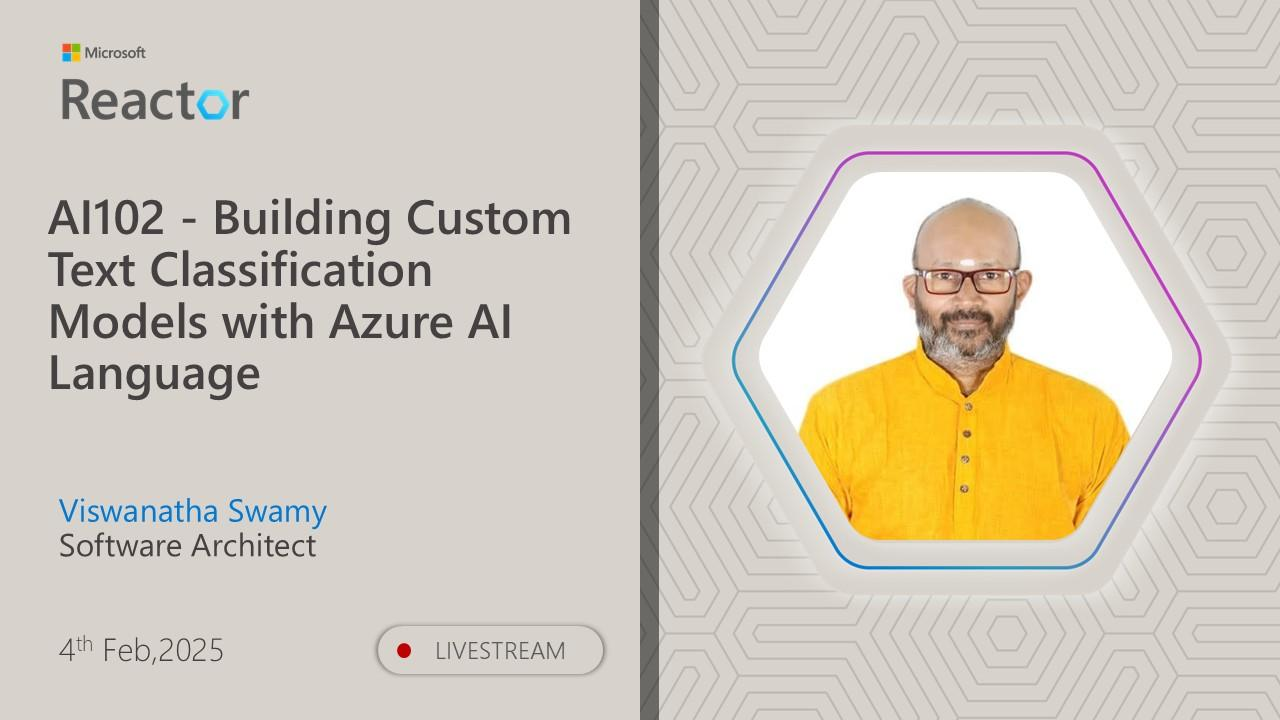
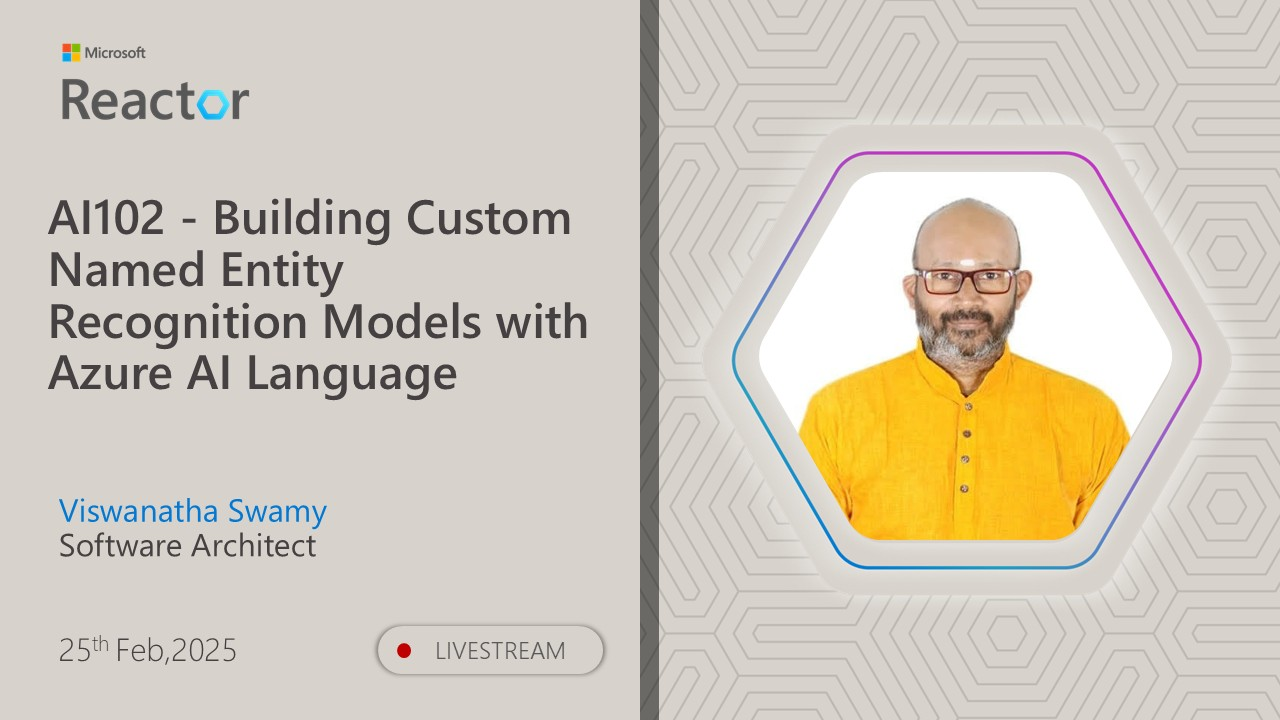
Swamy/25feb work (#21)
* Initial Folder Structure

* Update README.md

* Removed the images

* Update README.md

* Update README.md

Changed region(s): [[0.0312, 0.3361, 0.4688, 0.55], [0.0625, 0.7028, 0.25, 0.7333], [0.0312, 0.8861, 0.1875, 0.9167]]

diff --git a/0225_MSFT_Reactor_AI102_S22/README.md b/0225_MSFT_Reactor_AI102_S22/README.md
@@ -1,10 +1,10 @@
-# AI-102 - Building Custom Text Classification Models with Azure AI Language
+# AI-102 - Building Custom Named Entity Recognition Models with Azure AI Language
 
-## Date Time: 04-Feb-2025 at 03:30 PM IST
+## Date Time: 25-Feb-2025 at 03:30 PM IST
 
-## Event URL: [https://www.meetup.com/microsoft-reactor-bengaluru/events/305749942](https://www.meetup.com/microsoft-reactor-bengaluru/events/305749942)
+## Event URL: [https://www.meetup.com/microsoft-reactor-bengaluru/events/305788277](https://www.meetup.com/microsoft-reactor-bengaluru/events/305788277)
 
-## YouTube URL: [https://www.youtube.com/watch?v=BtnhSKjRNWg](https://www.youtube.com/watch?v=BtnhSKjRNWg)
+## YouTube URL: [https://www.youtube.com/watch?v=X0GDn-F1zGo](https://www.youtube.com/watch?v=X0GDn-F1zGo)
 
 ![Viswanatha Swamy P K |150x150](./Documentation/Images/ViswanathaSwamyPK.PNG)
 
@@ -59,73 +59,11 @@
 
 ### 1.3. Microsoft Learn Module(s)
 
-> 1. <https://aka.ms/AILanguage>
+> 1. <https://aka.ms/Entity-Recognition>
 
 ## 2. Introduction
 
 To be done
-
-## 3. Provision an Azure AI Language resource
-
-> 1. Discussion and Demo
-
-![Custom Text Classification](./Documentation/Images/LanguageService_CTClass.PNG)
-
-## 4. Roles for your user
-
-> 1. Discussion and Demo
-
-![Roles For User](./Documentation/Images/Roles_For_User.PNG)
-
-## 5. Upload sample articles
-
-> 1. Discussion and Demo
-
-### 5.1. Stroage Account Configuration
-
-### 5.2. Articles Uploaded
-
-![Articles Uploaded](./Documentation/Images/Articles_Uploaded.PNG)
-
-## 6. Create a custom text classification project
-
-> 1. Discussion and Demo
-
-## 7. Label your data
-
-> 1. Discussion and Demo
-
-![TypesOfClasses](./Documentation/Images/TypesOfClasses.PNG)
-
-![DataLabeling](./Documentation/Images/DataLabeling.PNG)
-
-## 8. Train your model
-
-> 1. Discussion and Demo
-
-![TrainingTheModel](./Documentation/Images/TrainingTheModel.PNG)
-
-![TrainingTheModel](./Documentation/Images/TrainingTheModel_1.PNG)
-
-## 9. Evaluate your model
-
-> 1. Discussion and Demo
-
-![ModelPerformance](./Documentation/Images/ModelPerformance.PNG)
-
-## 10. Deploy your model
-
-> 1. Discussion and Demo
-
-![ModelDeployment](./Documentation/Images/ModelDeployment.PNG)
-
-## 11. Test in Postman
-
-> 1. Discussion and Demo
-
-## 12. App in VS Code / VS 2022
-
-> 1. Discussion and Demo
 
 ---
 
